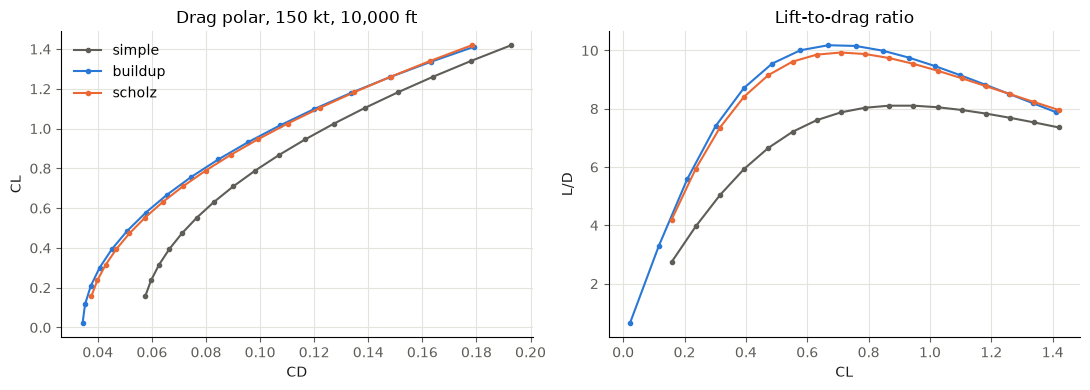
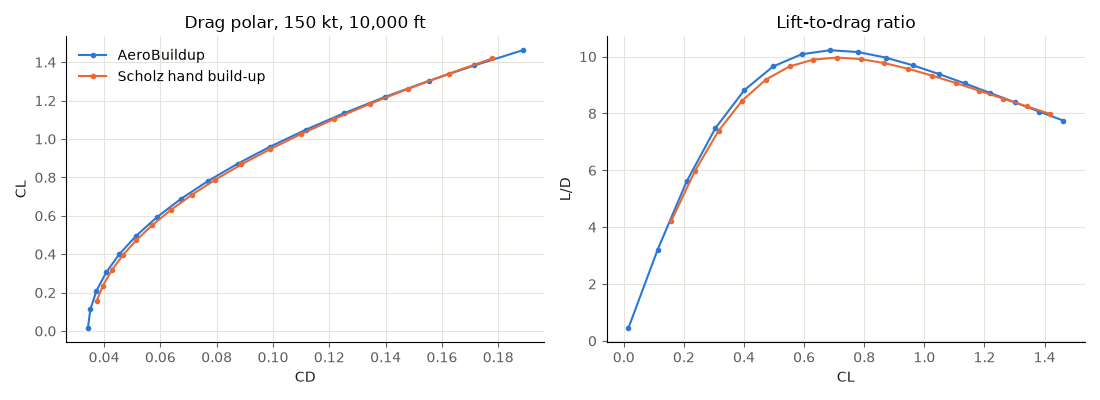
docs: README figures - empty-mass pie replaces the weight progression; drag polar without the simple model; thermal and sensitivity figures removed
The pie and polar are drawn from the 15,179 lb reference. The trajectory caption now says the Tier 14 corridor is the assumed XV-15 shape.

diff --git a/README.md b/README.md
@@ -44,13 +44,10 @@ Halo data (see [reference assumptions](docs/HALO_REFERENCE.md)).
 Figures from the executed tier notebooks (`notebooks/`) and the geometry
 export, copied to `docs/figures/`.
 
-**How the answer moved as fidelity was added.** Each bar is the reference
-aircraft re-solved with that tier's models. The jump at plan 035 comes from
-three changes: whole real machine units in place of idealized ("rubber")
-scaling, electrical redundancy, and drag corrections for excrescence and
-trim.
+**Where the empty mass goes.** The 15,179 lb reference: 5,049 kg empty, of
+which the powertrain is 2,871 kg (57 %).
 
-![Take-off weight by fidelity step](docs/figures/fidelity_progression.png)
+![Empty mass breakdown](docs/figures/oew_breakdown.png)
 
 **Geometry.** The OpenVSP outer mold line at three nacelle angles, and the
 structural layout used for the mass check. These are rendered from an
@@ -60,9 +57,9 @@ earlier sized design (`examples/halo_openvsp.py`, `examples/halo_structure.py`).
 ![Structural layout](docs/figures/halo_structure.png)
 
 **Aerodynamics.**
-- **Drag polar (Tier 21):** the simple model, AeroSandbox AeroBuildup and the
-  Scholz hand build-up compared. The old guessed drag area was most of the
-  drag.
+- **Drag polar (Tier 21):** AeroSandbox AeroBuildup and the Scholz hand
+  build-up on the reference aircraft agree within about 3 % in drag at
+  cruise lift.
 - **Cross-check on the same geometry:** OpenVSP VSPAERO (VLM and panel)
   against AeroSandbox for lift, pitching moment, induced drag, and profile
   drag by component.
@@ -79,26 +76,18 @@ earlier sized design (`examples/halo_openvsp.py`, `examples/halo_structure.py`).
 ![JVX proprotor calibration](docs/figures/rotor_jvx_calibration.png)
 ![XV-15 wing components](docs/figures/xv15_wing_components.png)
 
-**Battery and thermal.**
-- **Battery cell (Tier 17):** the 50G open-circuit voltage fit to the
-  digitized cell data.
-- **Thermal (Tier 19):** lumped machine temperature response, and the
-  short-time rating it permits from a cold start.
+**Battery cell (Tier 17).** The 50G open-circuit voltage fit to the
+digitized cell data.
 
 ![Battery OCV fit](docs/figures/battery_ocv_fit.png)
-![Thermal short-time rating](docs/figures/thermal_short_time_rating.png)
 
 **Trajectory optimization (Tier 14).** Minimum-energy transition and
-minimum time to climb, flown inside the conversion corridor, against a
-naive prescribed conversion. The minimum-energy transition uses about half
+minimum time to climb, flown inside an assumed XV-15-shaped conversion
+corridor (the computed corridor of plan 039 is below), against a naive
+prescribed conversion. The minimum-energy transition uses about half
 the energy of the naive schedule.
 
 ![Trajectories in the conversion corridor](docs/figures/trajectory_conversion_corridor.png)
-
-**Sensitivities (Tier 22).** Take-off mass change for ±15 % on each
-uncertain input. The XV-15 weight-calibration factors dominate.
-
-![Sensitivity tornado](docs/figures/sensitivity_tornado.png)
 
 ## What is in the package
 
